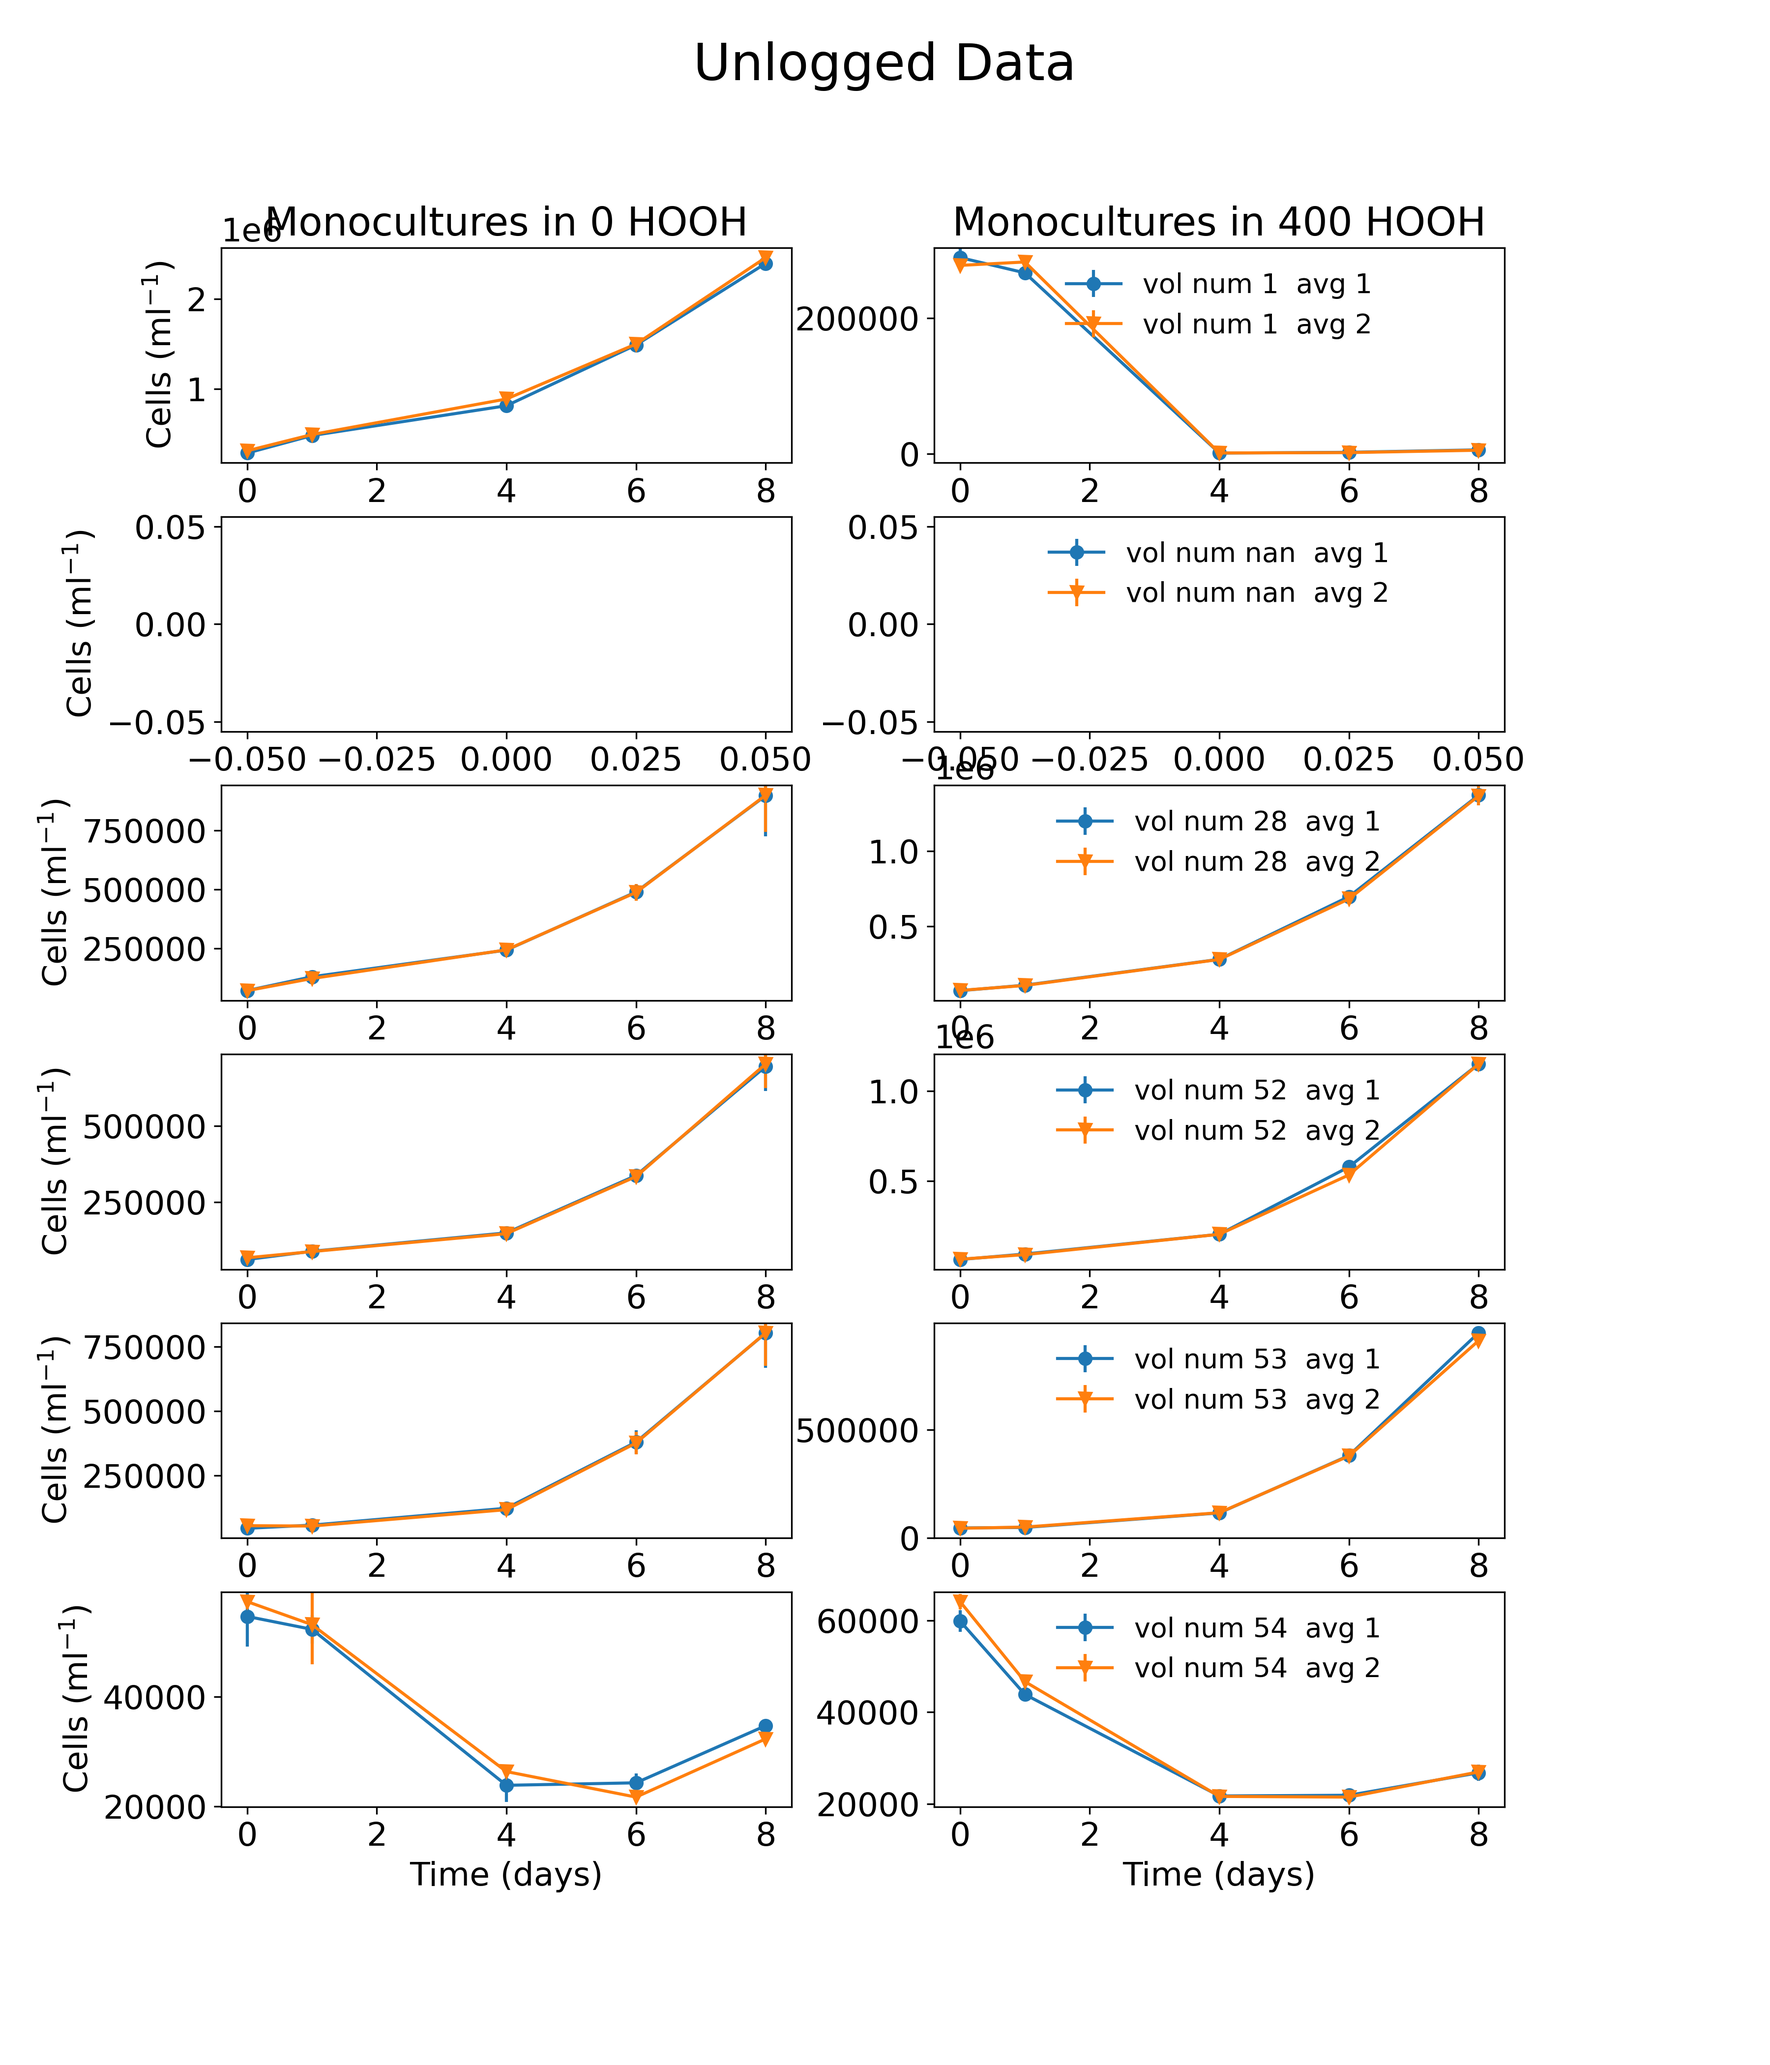
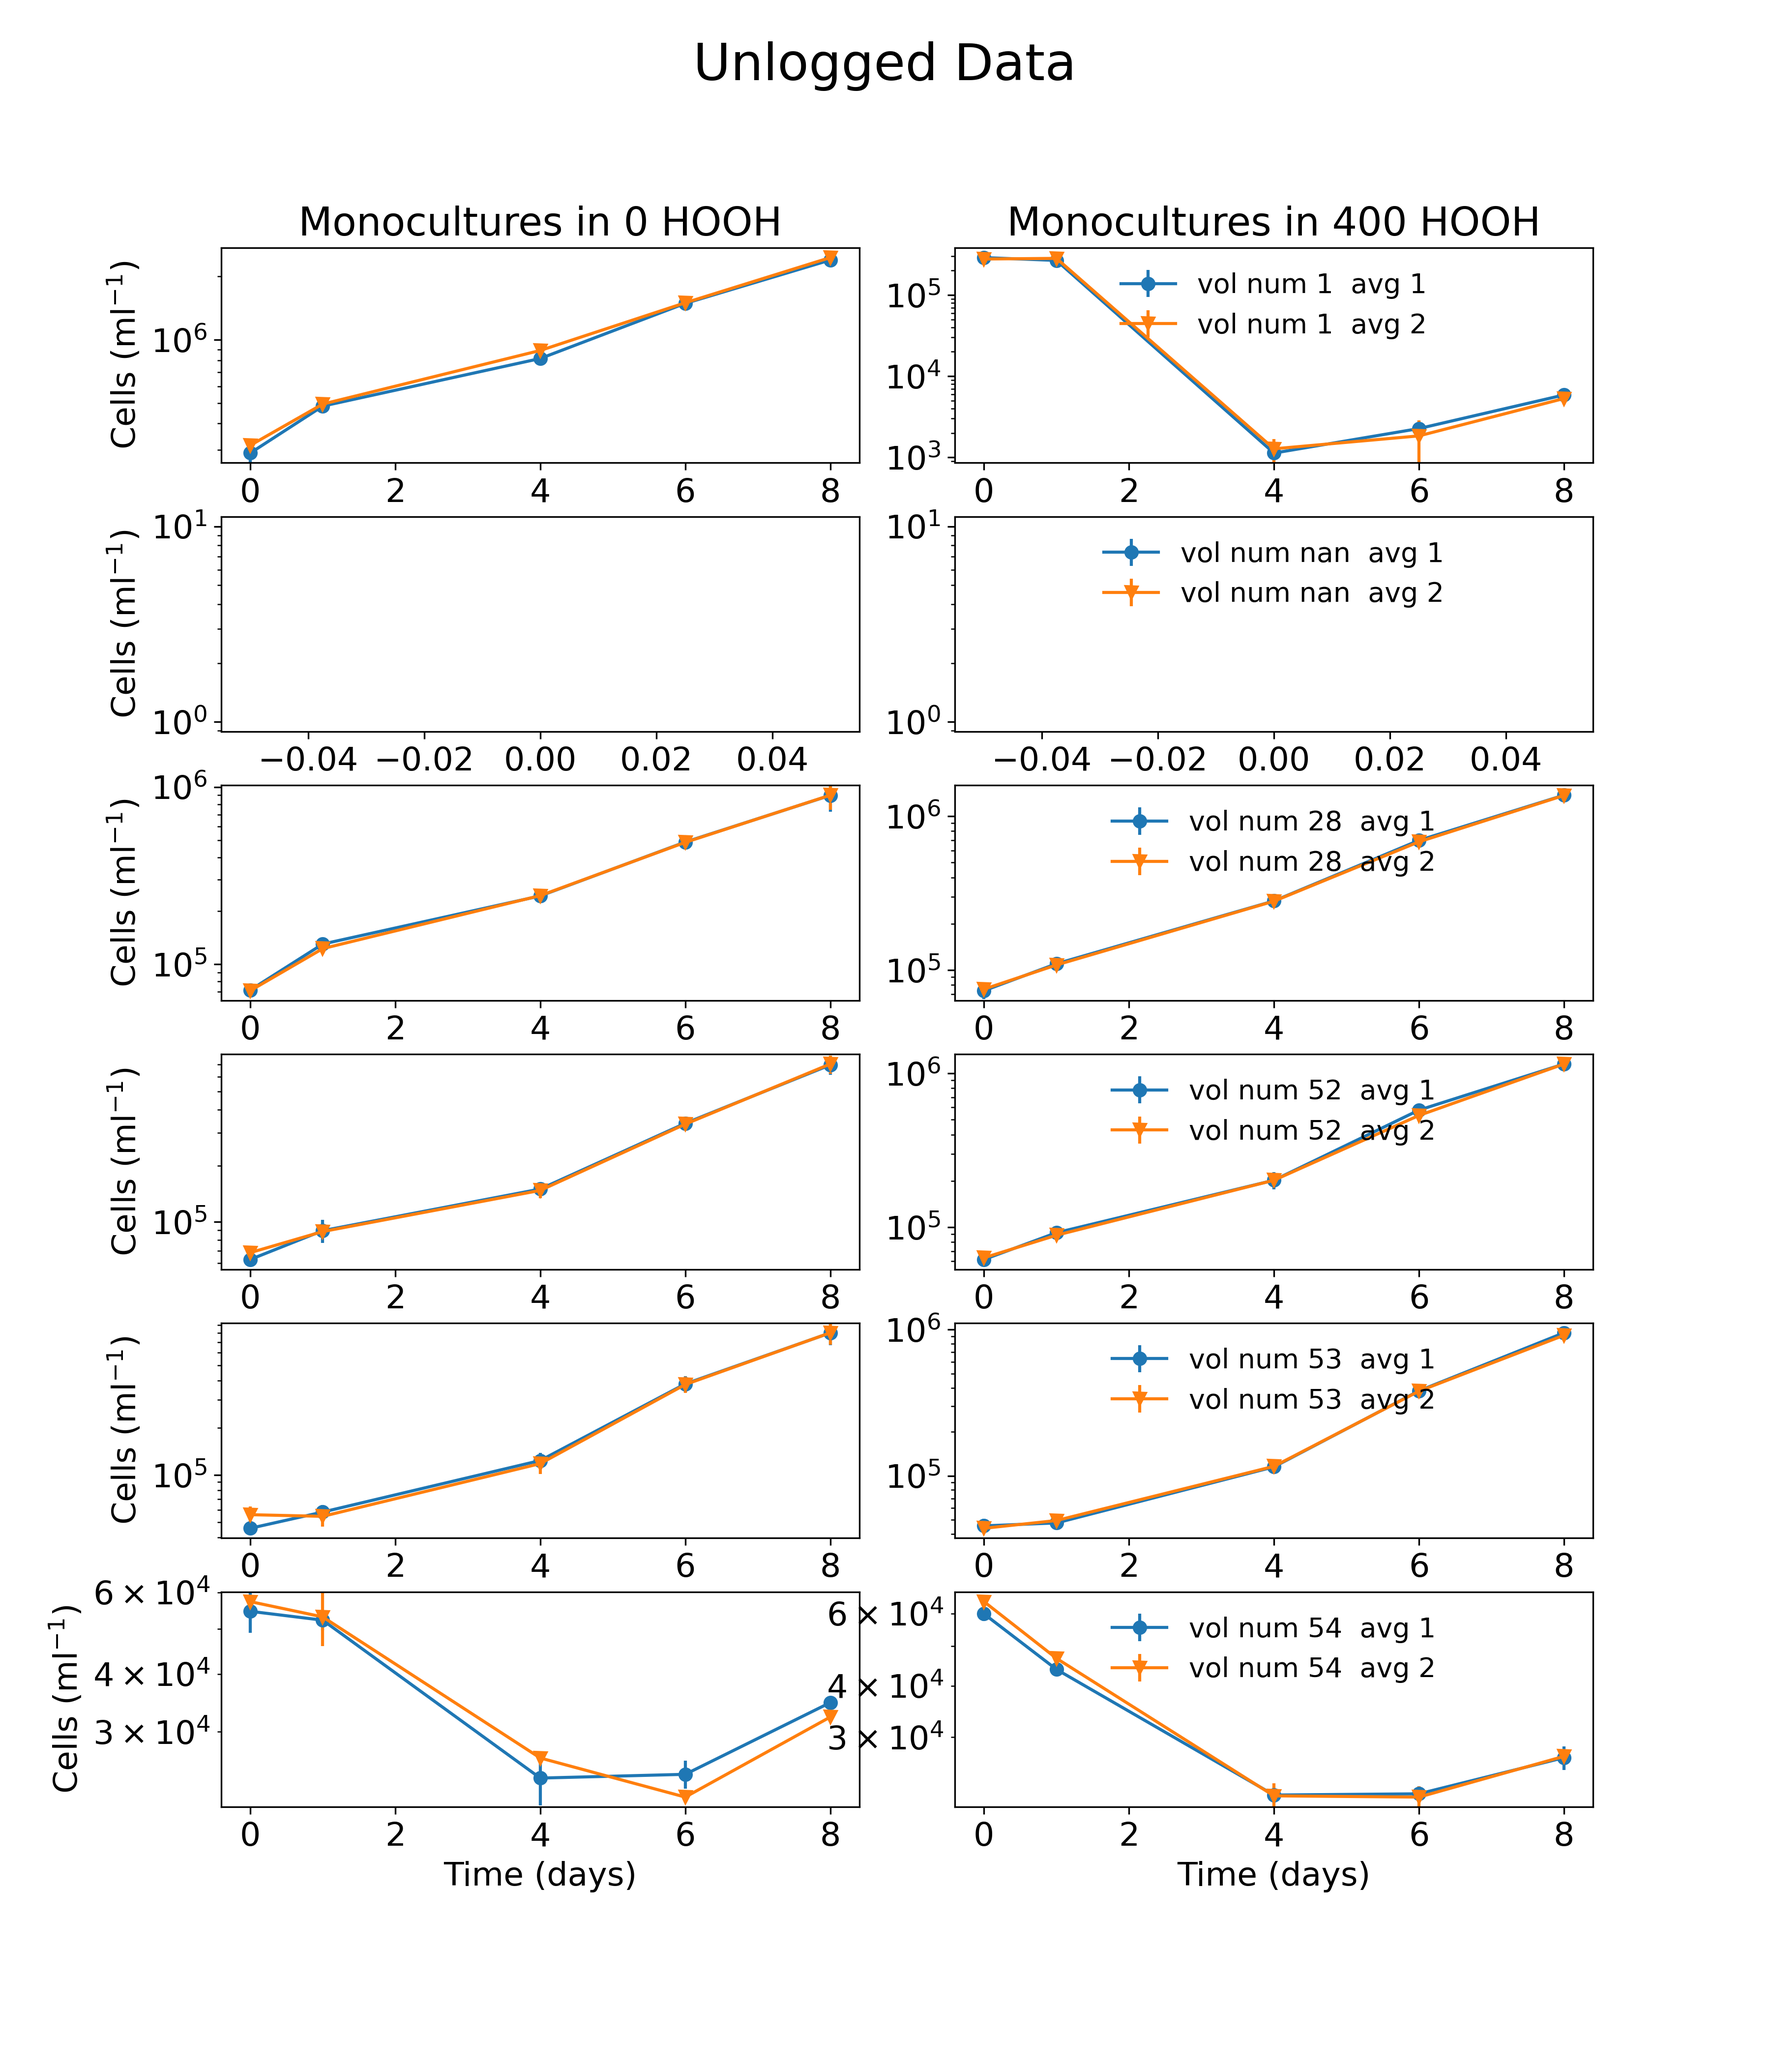
viz working

diff --git a/src/visualize_pro_batch.py b/src/visualize_pro_batch.py
@@ -52,6 +52,8 @@ for (S,si) in zip(strains,range(nstrains)):
     ax[si,1].errorbar(df400['time'],df400['avg2'],yerr=df400['std2'], marker='v',label = 'vol num ' + str(S)+'  avg 2')
     #ax[si,0].set_ybound(1000,2500000)
     #ax[si,1].set_ybound(1000,1500000)
+    ax[si,0].semilogy()
+    ax[si,1].semilogy()
     l3  = ax[si,1].legend(loc = 'upper center')
     l3.draw_frame(False)
     #df0.plot(kind='scatter', x='time', y ='avg1', yerr='std1',style="-", label = S, title = '0 HOOH assay', ylabel = 'cells per mL',logy = True)
@@ -59,7 +61,7 @@ for (S,si) in zip(strains,range(nstrains)):
 
 
 # make space on the right for annotation (e.g. ROS=0, etc.)
-fig3.subplots_adjust(right=0.85, wspace = 0.25, hspace = 0.25)
+fig3.subplots_adjust(right=0.90,wspace = 0.15, hspace = 0.25)
 
 # titles
 ax[0,0].set_title('Monocultures in 0 HOOH')
@@ -74,7 +76,7 @@ for a in ax[:,0]:
     a.set_ylabel('Cells (ml$^{-1}$)')
 
 fig3.savefig('../figures/monoculture_graphs')
-#inits = pd.read_csv("../data/inits/________.csv")
+
 
 
 #####################################################
@@ -108,7 +110,7 @@ for (S,si) in zip(strains,range(nstrains)):    #zipping the strain list with num
 
 #Config fig
 # make space on the right for annotation (e.g. ROS=0, etc.)
-fig4.subplots_adjust(right=0.85, wspace = 0.25, hspace = 0.25)
+fig4.subplots_adjust(right=0.90,wspace = 0.45, hspace = 0.25)
 
 # titles
 ax[0,0].set_title('Monocultures in 0 HOOH')
@@ -124,4 +126,4 @@ for a in ax[:,0]:
 
 plt.show() 
 
-#fig4.savefig('../figures/monoculture_logged_graphs')
+fig4.savefig('../figures/monoculture_logged_graphs')
